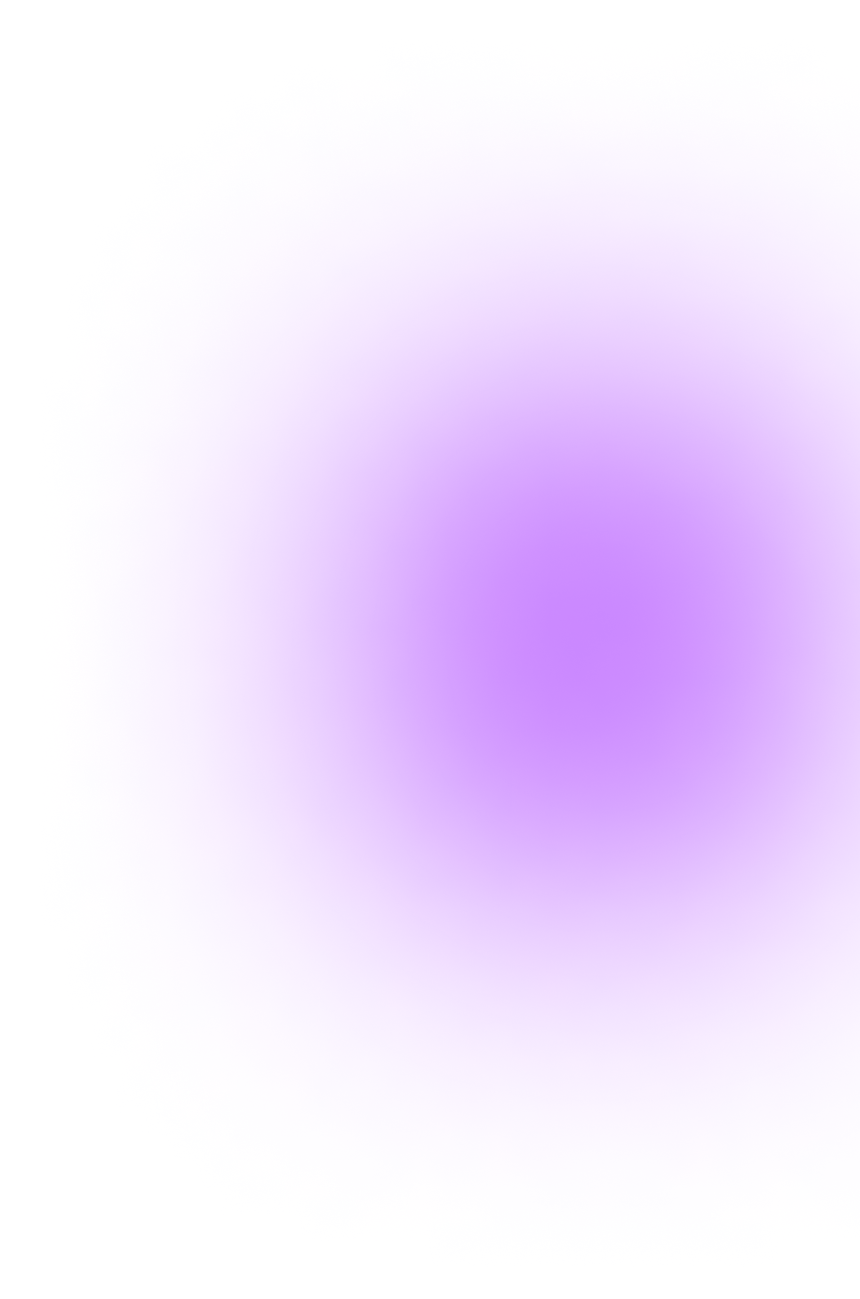
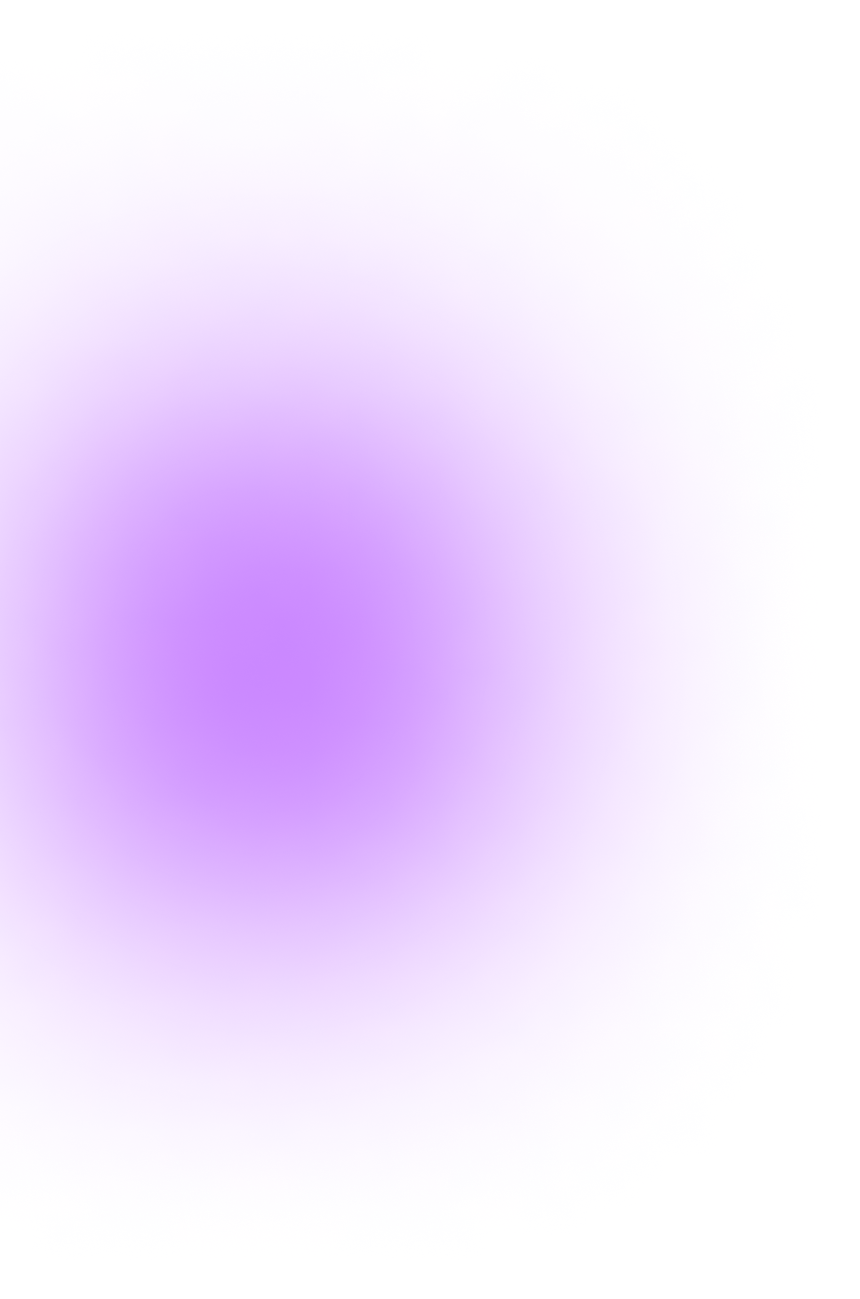
MAJ

diff --git a/style.css b/style.css
@@ -1,0 +1,277 @@
+/* CSS Footer */
+
+.footer_container {
+    background-color: black;
+    list-style: none;
+    display: flex;
+    flex-direction: column;
+    color: white;
+    width: 100%;
+    height: 400px;
+}
+
+.img-fond-footer {
+    position: absolute;
+    height: 500px;
+    width: 500px;
+    top: -50px;
+    z-index: 1;
+}
+
+.img-fond-footer img {
+    width: 100%;
+    height: 100%;
+}
+
+
+/* container TOP */
+
+.top_container {
+    display: flex;
+    flex-direction: row;
+    width: 100%;
+    z-index: 2;
+    margin: 20px;
+}
+
+
+/* section Reseaux */
+.reseaux_nav_barre {
+    width: 50%;
+    display: flex;
+    flex-direction: column;
+    justify-content: space-between;
+}
+
+.social_networks {
+    display: flex;
+    flex-direction: column;
+}
+
+.titre_social_networks {
+    margin-left: 58px;
+}
+
+.logo_social_networks {
+    width: 100%;
+    display: flex;
+    flex-direction: row;
+    margin-top: 20px;
+}
+
+.logo_social_networks img {
+    margin-left: 50px;
+}
+
+.nav_barre_footer {
+    width: 50%;
+    font-size: 1rem;
+    margin-bottom: 50px;
+}
+
+.nav_barre_footer ul {
+    display: flex;
+    flex-direction: row;
+}
+
+.nav_barre_footer li {
+    list-style: none;
+    margin-left: 40px;
+}
+
+.nav_barre_footer a {
+    text-decoration: none;
+    color: white;
+}
+
+
+
+/* section logo + localisation */
+
+.logo_localisation {
+    width: 50%;
+    display: flex;
+    flex-direction: column;
+
+    margin: 0 40px 40px 0;
+    font-size: 0.8rem;
+}
+
+.logo_footer {
+    height: 100px;
+    width: 100%;
+    float: right;
+    display: flex;
+    justify-content: flex-end;
+}
+
+.logo_footer img {
+    height: 100%;
+}
+
+.localisation_footer {
+    text-align: end;
+}
+
+.localisation_footer p {
+    margin-left: 50px;
+}
+
+
+/* section bot container */
+
+.bot_container {
+    display: flex;
+    flex-direction: row;
+    justify-content: space-between;
+    align-items: center;
+    margin: 0 20px;
+}
+
+.privacy_condition {
+    width: 50%;
+    height: 100%;
+    font-size: 1rem;
+    display: flex;
+    margin-left: 20px;
+}
+
+.privacy_condition ul {
+    display: flex;
+    flex-direction: row;
+    height: 100%;
+}
+
+.privacy_condition li {
+    list-style: none;
+    padding-left: 20px;
+}
+
+.privacy_condition a {
+    text-decoration: none;
+    color: white;
+}
+
+@media screen and (max-width: 768px) {
+    .footer_container {
+        width: 100%;
+        height: auto;
+    }
+    
+    .img-fond-footer {
+        height: auto;
+        width: auto;
+    }
+    
+    
+    /* container TOP */
+    
+    .top_container {
+        flex-direction: column;
+        width: 100%;
+        align-items: center;
+        margin: initial;
+        text-align: center;
+    }
+    
+    
+    /* section Reseaux */
+    .reseaux_nav_barre {
+        width: 100%;
+    }
+    
+    .social_networks {
+        display: flex;
+        flex-direction: column;
+    }
+    
+    .titre_social_networks {
+        margin-left: initial;
+        text-align: center;
+    }
+    
+    .logo_social_networks {
+        width: 100%;
+        justify-content: space-evenly;
+        flex-wrap: wrap;
+    }
+    
+    .logo_social_networks img {
+        margin-left: initial;
+        display: flex;
+        flex-wrap: wrap;
+    }
+    
+    .nav_barre_footer {
+        width: 100%;
+        margin: initial;
+        margin-top: 50px;
+        display: flex;
+        justify-content: center;
+        flex-wrap: wrap;
+    }
+    
+    .nav_barre_footer ul {
+        width: 100%;
+        justify-content: space-evenly;
+        margin: initial;
+        flex-wrap: wrap;
+        padding: initial;
+    }
+    
+    .nav_barre_footer li {
+        margin-left: initial;
+    }
+    
+    
+    /* section logo + localisation */
+    
+    .logo_localisation {
+        width: 100%;
+        align-items: center;
+        margin: initial;
+        margin-top: 50px;
+    }
+    
+    .logo_footer {
+        height: 150px;
+        width: 100%;
+        justify-content: center;
+    }
+    
+    .localisation_footer {
+        text-align: center;
+        font-size: 1rem;
+    }
+    
+    .localisation_footer p {
+        margin-left: initial;
+        flex-wrap: wrap;
+        
+    }
+    
+    
+    /* section bot container */
+    
+    .bot_container {
+        flex-direction: column;
+        align-items: center;
+        flex-wrap: wrap;
+        margin: initial;
+        margin-top: 50px;
+        padding-bottom: 40px;
+    }
+    
+    .privacy_condition {
+        width: 100%;
+        margin-left: initial;
+        align-items: center;
+        justify-content: center;
+    }
+    
+    .privacy_condition ul {
+        flex-wrap: wrap;
+        padding: initial;
+    }
+
+}

diff --git a/index.html b/index.html
@@ -15,6 +15,11 @@
 
     <footer class="footer_container">
 
+
+        <div class="img-fond-footer">
+        <img src="img/Violate_Elipse_3.png" alt="Violate_Elipse_3" class="image-fond-footer">
+    </div>
+
         <!-- footer class top -->
         <div class="top_container">
 
@@ -62,10 +67,10 @@
                 <!-- localisation -->
 
                 <div class="localisation_footer">
-                    <h1>Localisation :</h1><br>
+                    <h1>Localisation :</h1>
                     <p>- 5 rue de Montford<br>
-                        ZI 97410 St Pierre</p><br>
-                    <p>tel : +262 262 52 65 58</p><br>
+                        ZI 97410 St Pierre</p>
+                    <p>tel : +262 262 52 65 58</p>
                     <p>mail : serviceclient@contacttechland.com</p>
                 </div>
             </div>
